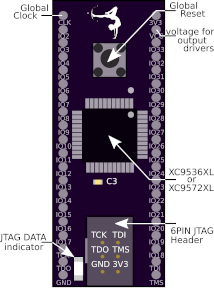
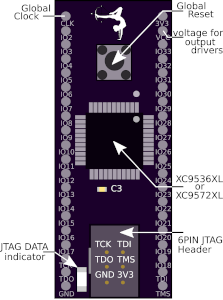
edit README     - add BOM     - add pin overview     - edit some graphics

Changed region(s): [[0.0, 0.0, 1.0, 1.0], [0.4206, 0.03, 0.6168, 0.27]]

diff --git a/README.md b/README.md
@@ -6,16 +6,58 @@ Configurations that are present in an HDL/schematic are transmitted via JTAG and
 
 
 <img alt="Image of main window" src="doc/Figures/BitConnector6P.png">
+<img alt="Image of main window" src="doc/Figures/BitConnector v3X_F.png">
+<img alt="Image of main window" src="doc/Figures/BitConnector v3X_F2.png">
 
 ## Usage 
-Please see page 2 of the documentation (Board_Doc_v1_germ.pdf)
+For more, please see the documentation (Board_Doc_v1_germ.pdf)
+
+|    |           |          |           |            |          |                   |
+| :- | :-------: | :------: | :-------- | :--------: | :------: | :---------------- |
+| **Nr** | **DIP-left**  | **CPLD-Pin** | **comment**   | **DIP-right**  | **CPLD-Pin** | **comment**           |
+| 1  |    CLK    |    1     | GCK3      |    3V3     |  15,35   | V<sub>ccINT</sub> |
+| 2  |    IO2    |    2     |           |    VCC     |    26    | V<sub>ccIO</sub>  |
+| 3  |    IO3    |    3     |           |    IO33    |    44    | GCK2              |
+| 4  |    IO4    |    5     |           |    IO32    |    43    | GCK1              |
+| 5  |    IO5    |    6     |           |    IO31    |    42    |                   |
+| 6  |    IO6    |    7     |           |    IO30    |    41    |                   |
+| 7  |    IO7    |    8     |           |    IO29    |    40    |                   |
+| 8  |    IO8    |    12    |           |    IO28    |    39    |                   |
+| 9  |    IO9    |    13    |           |    IO27    |    38    |                   |
+| 10 |   IO10    |    14    |           |    IO26    |    37    |                   |
+| 11 |   IO11    |    16    |           |    IO25    |    36    | GTS1              |
+| 12 |   IO12    |    18    |           |    IO24    |    34    | GTS2              |
+| 13 |   IO13    |    19    |           |    IO23    |    32    |                   |
+| 14 |   IO14    |    20    |           |    IO22    |    31    |                   |
+| 15 |   IO15    |    21    |           |    IO21    |    30    |                   |
+| 16 |   IO16    |    22    |           |    IO20    |    29    |                   |
+| 17 |   IO17    |    23    |           |    IO19    |    28    |                   |
+| 18 |    TCK    |    11    | JTAG      |    IO18    |    27    |                   |
+| 19 |    TDO    |    24    | JTAG      |    TDI     |    9     | JTAG              |
+| 20 |    GND    | 17,25,4  |           |    TMS     |    10    | JTAG              |
+
+## Build
+
+The BitConverter was designed in a minimal configuration with commercially available components. 
+In addition to the schematic, the gerber files for board production was also published.
+
+|       |                               |               |               |               |
+| :-    | :---------------------------: | :--------:    | :---------:   |   :---------: |
+|   Nr  |   component                   |  value        |   quantity    |   package     |
+|   1   |   Unpolarized capacitor       |   100nF       |   3           |   0603        |
+|   2   |   LED                         |   blue        |   1           |   1206        |
+|   3   |   Resistor                    |   4K7         |   4           |   0805        |
+|   4   |   Resistor                    |   120         |   1           |   0805        |
+|   5   |   Push button                 |   6 mm        |   1           |   THT         |
+|   6   |   Pin Header 1x20             |   2,54 mm     |   2           |   vertical    |
+|   7   |   XC9536XL/XC9572XL           |   CPLD        |   1           |   VQ44        |
 
 
 ## Licence
 This project is distributed in the hope that it will be useful, but WITHOUT ANY WARRANTY.
 
 This project is free: you can redistribute it and/or modify
-it under the terms of CC BY-SA 4.0 (https://creativecommons.org/licenses/by-sa/4.0/deed.de)
+it under the terms of [CC BY-SA 4.0](https://creativecommons.org/licenses/by-sa/4.0/deed.de)
 Excluded from this license is the logo(./doc/Figures/Logo.pdf).
 Should you change or delete something, please remove the logo.
 
